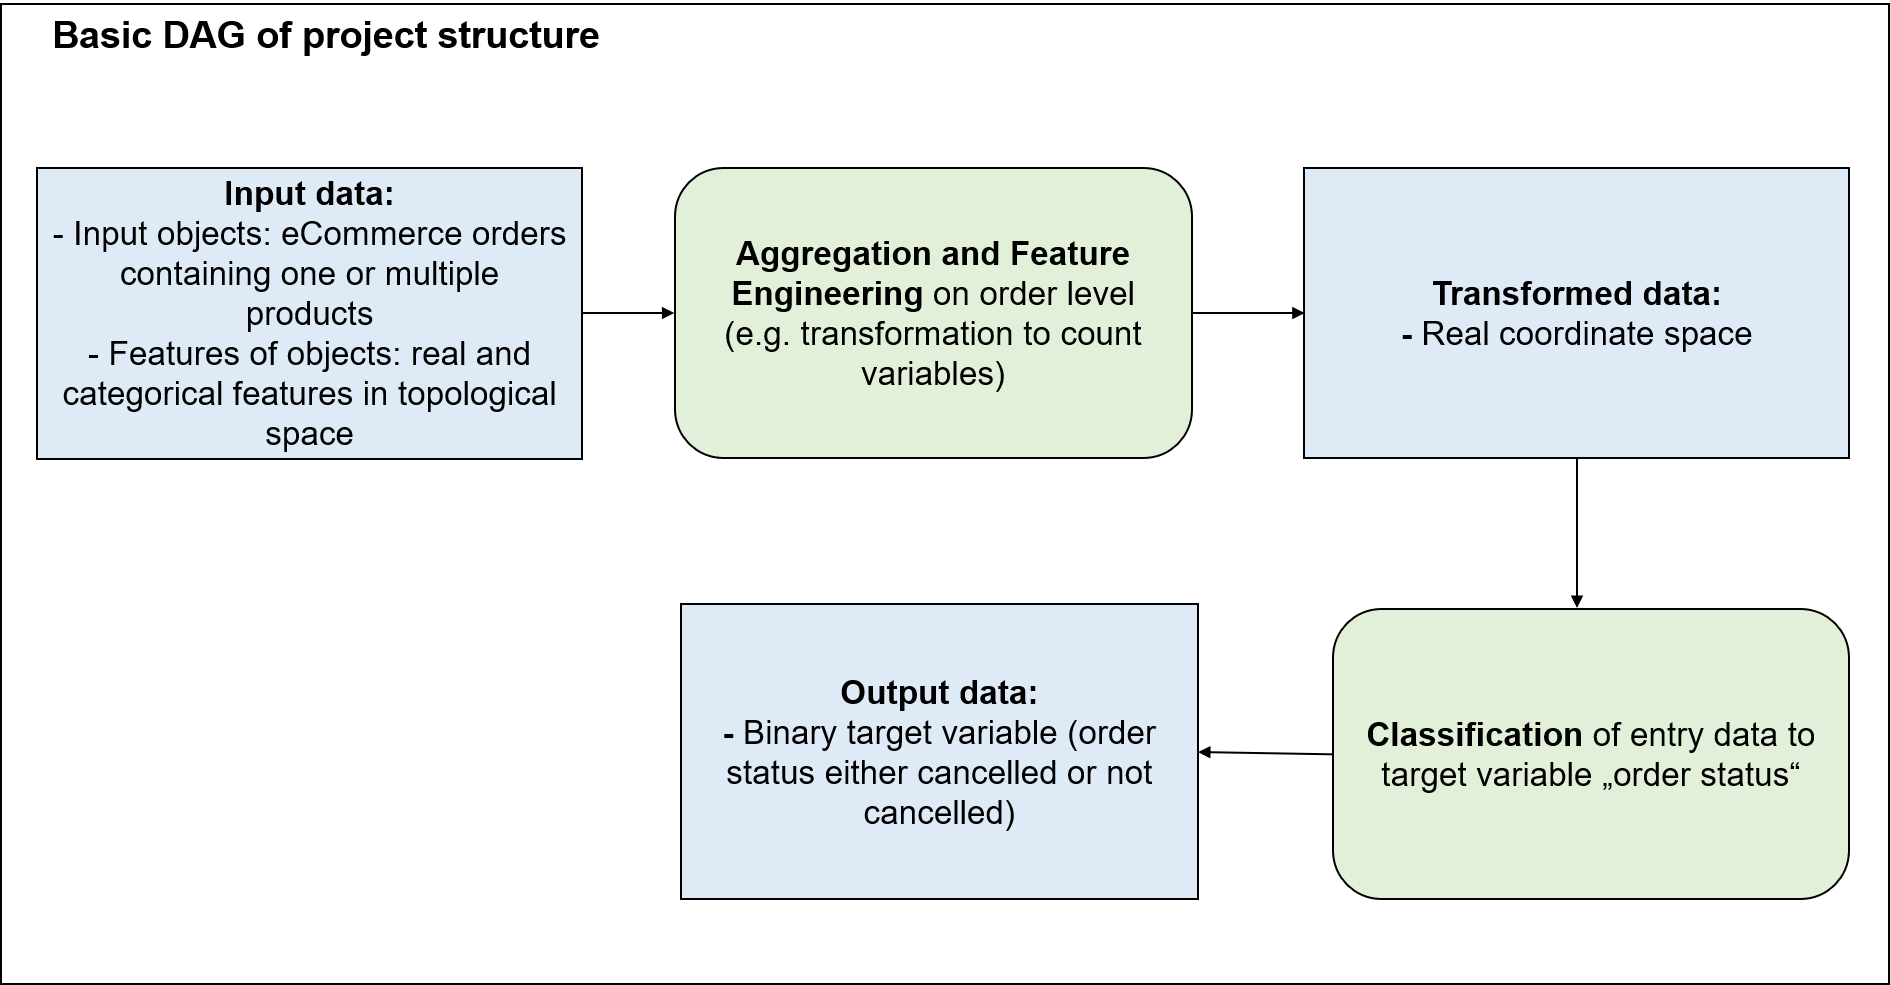
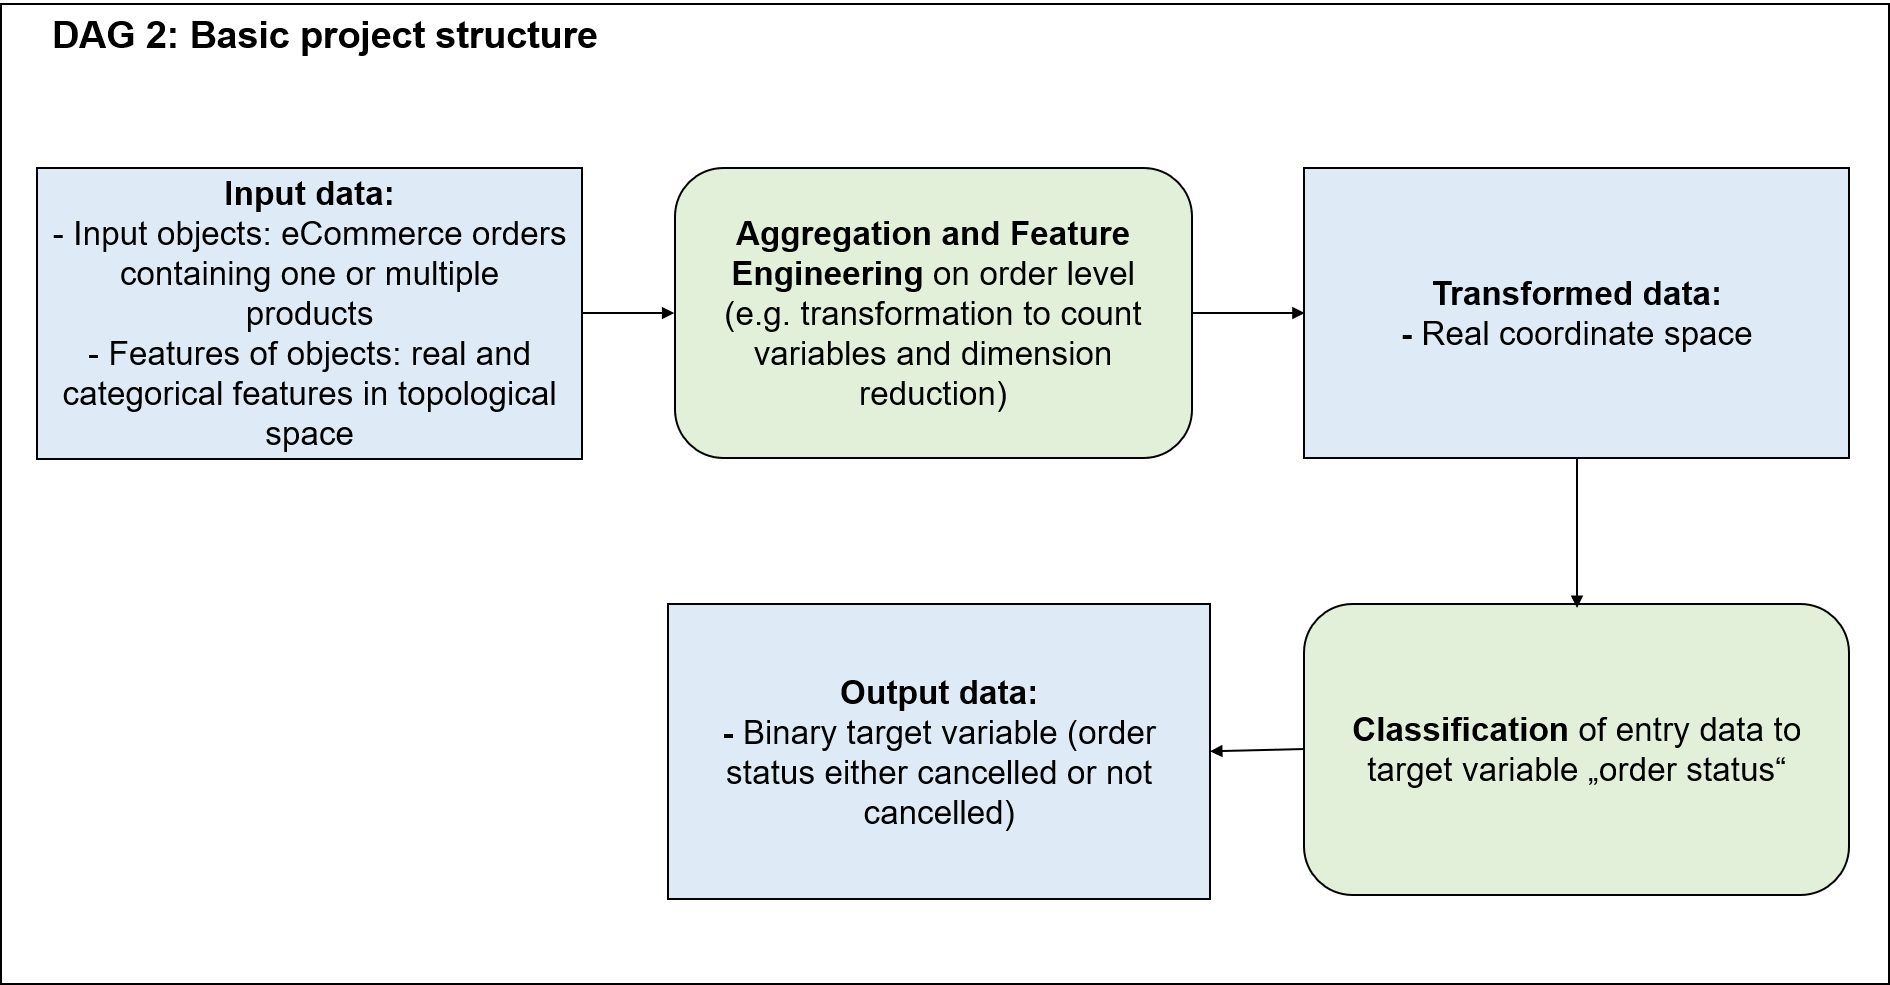
Change project overview

diff --git a/scripts/dataflow_feature_engineering.py b/scripts/dataflow_feature_engineering.py
@@ -1,5 +1,6 @@
 import pandas as pd
-from source.components.dataflow_feature_engineering import calc_mean,calc_count,join_dfs,merge_calc_cols
+from source.components.feature_engineering import calc_mean, calc_count, join_dfs, merge_calc_cols, split_data
+
 
 # load different datasets needed
 olist_orders = pd.read_csv(
@@ -16,7 +17,6 @@ olist_geolocation = pd.read_csv(
     './data/olist_geolocation_dataset.csv', encoding='utf-8')
 olist_products = pd.read_csv(
     './data/olist_products_dataset.csv', encoding='utf-8')
-
 
 # get target variable and drop not needed columns from olist_orders
 churn = olist_orders[olist_orders['order_status'].isin(['canceled', 'delivered'])]
@@ -42,7 +42,6 @@ avg_calc_order_items = calc_mean(olist_order_items[[
         'product_length_cm': 'avg_product_length_cm',
         'product_height_cm': 'avg_product_height_cm',
         'product_width_cm': 'avg_product_width_cm'})
-
 
 olist_order_payments_reduced = olist_order_payments[['order_id', 'payment_type']]
 
@@ -71,4 +70,8 @@ churn['customer_state'] = churn['customer_state'].astype('category')
 churn['payment_type'] = churn['payment_type'].astype('category')
 
 # get dummies from categorical columns
-churn = pd.get_dummies(data=churn, columns=['order_status', 'customer_state', 'payment_type']).drop(columns=['order_status_delivered'])
+churn = pd.get_dummies(data=churn, columns=['order_status', 'customer_state', 'payment_type']).drop(
+    columns=['order_status_delivered'])
+
+#reduce dimensions via PCA and get train_test_split
+X_train, X_test, y_train, y_test, explained_variance = split_data(churn)

diff --git a/source/components/feature_engineering.py b/source/components/feature_engineering.py
@@ -1,0 +1,47 @@
+import pandas as pd
+from functools import reduce
+
+def calc_count(df, groupkey, dict):
+    df = df.groupby(groupkey).count().reset_index()
+    df = df.rename(columns=dict)
+    return df
+
+
+def calc_mean(df, groupkey, dict):
+    df = df.groupby(groupkey).mean().reset_index()
+    df = df.rename(columns=dict)
+    return df
+
+
+def join_dfs(df_left, df_right, join_key, drop_nan):
+    df = pd.merge(df_left, df_right, on=join_key, how='left')
+    df = df.dropna(subset=drop_nan)
+    return df
+
+
+def merge_calc_cols(df_to_merge, join_key):
+    df = reduce(lambda left, right: pd.merge(left, right, on=join_key, how='left'), df_to_merge)
+    df = df.dropna()
+    return df
+
+def split_data(df):
+
+    ## Get X and y
+    X = df.drop(columns=['is_canceled', 'order_hour_minute_second', 'order_year_month_day']).values
+    y = df['is_canceled'].values
+
+    #train_test_split
+    X_train, X_test, y_train, y_test = train_test_split(X, y, test_size=0.2, random_state=1, stratify=y, shuffle=True)
+
+    # Feature Scaling (normalizing the data)
+    sc = StandardScaler()
+    X_train = sc.fit_transform(X_train)
+    X_test = sc.transform(X_test)
+
+    # Feature Engineering -  PCA for dimension reduction (Real coordinate space: metric/ binary)
+    pca = PCA(n_components=2)
+    X_train = pca.fit_transform(X_train)
+    X_test = pca.transform(X_test)
+
+    explained_variance = pca.explained_variance_ratio_
+    return X_train, X_test, y_train, y_test, explained_variance
